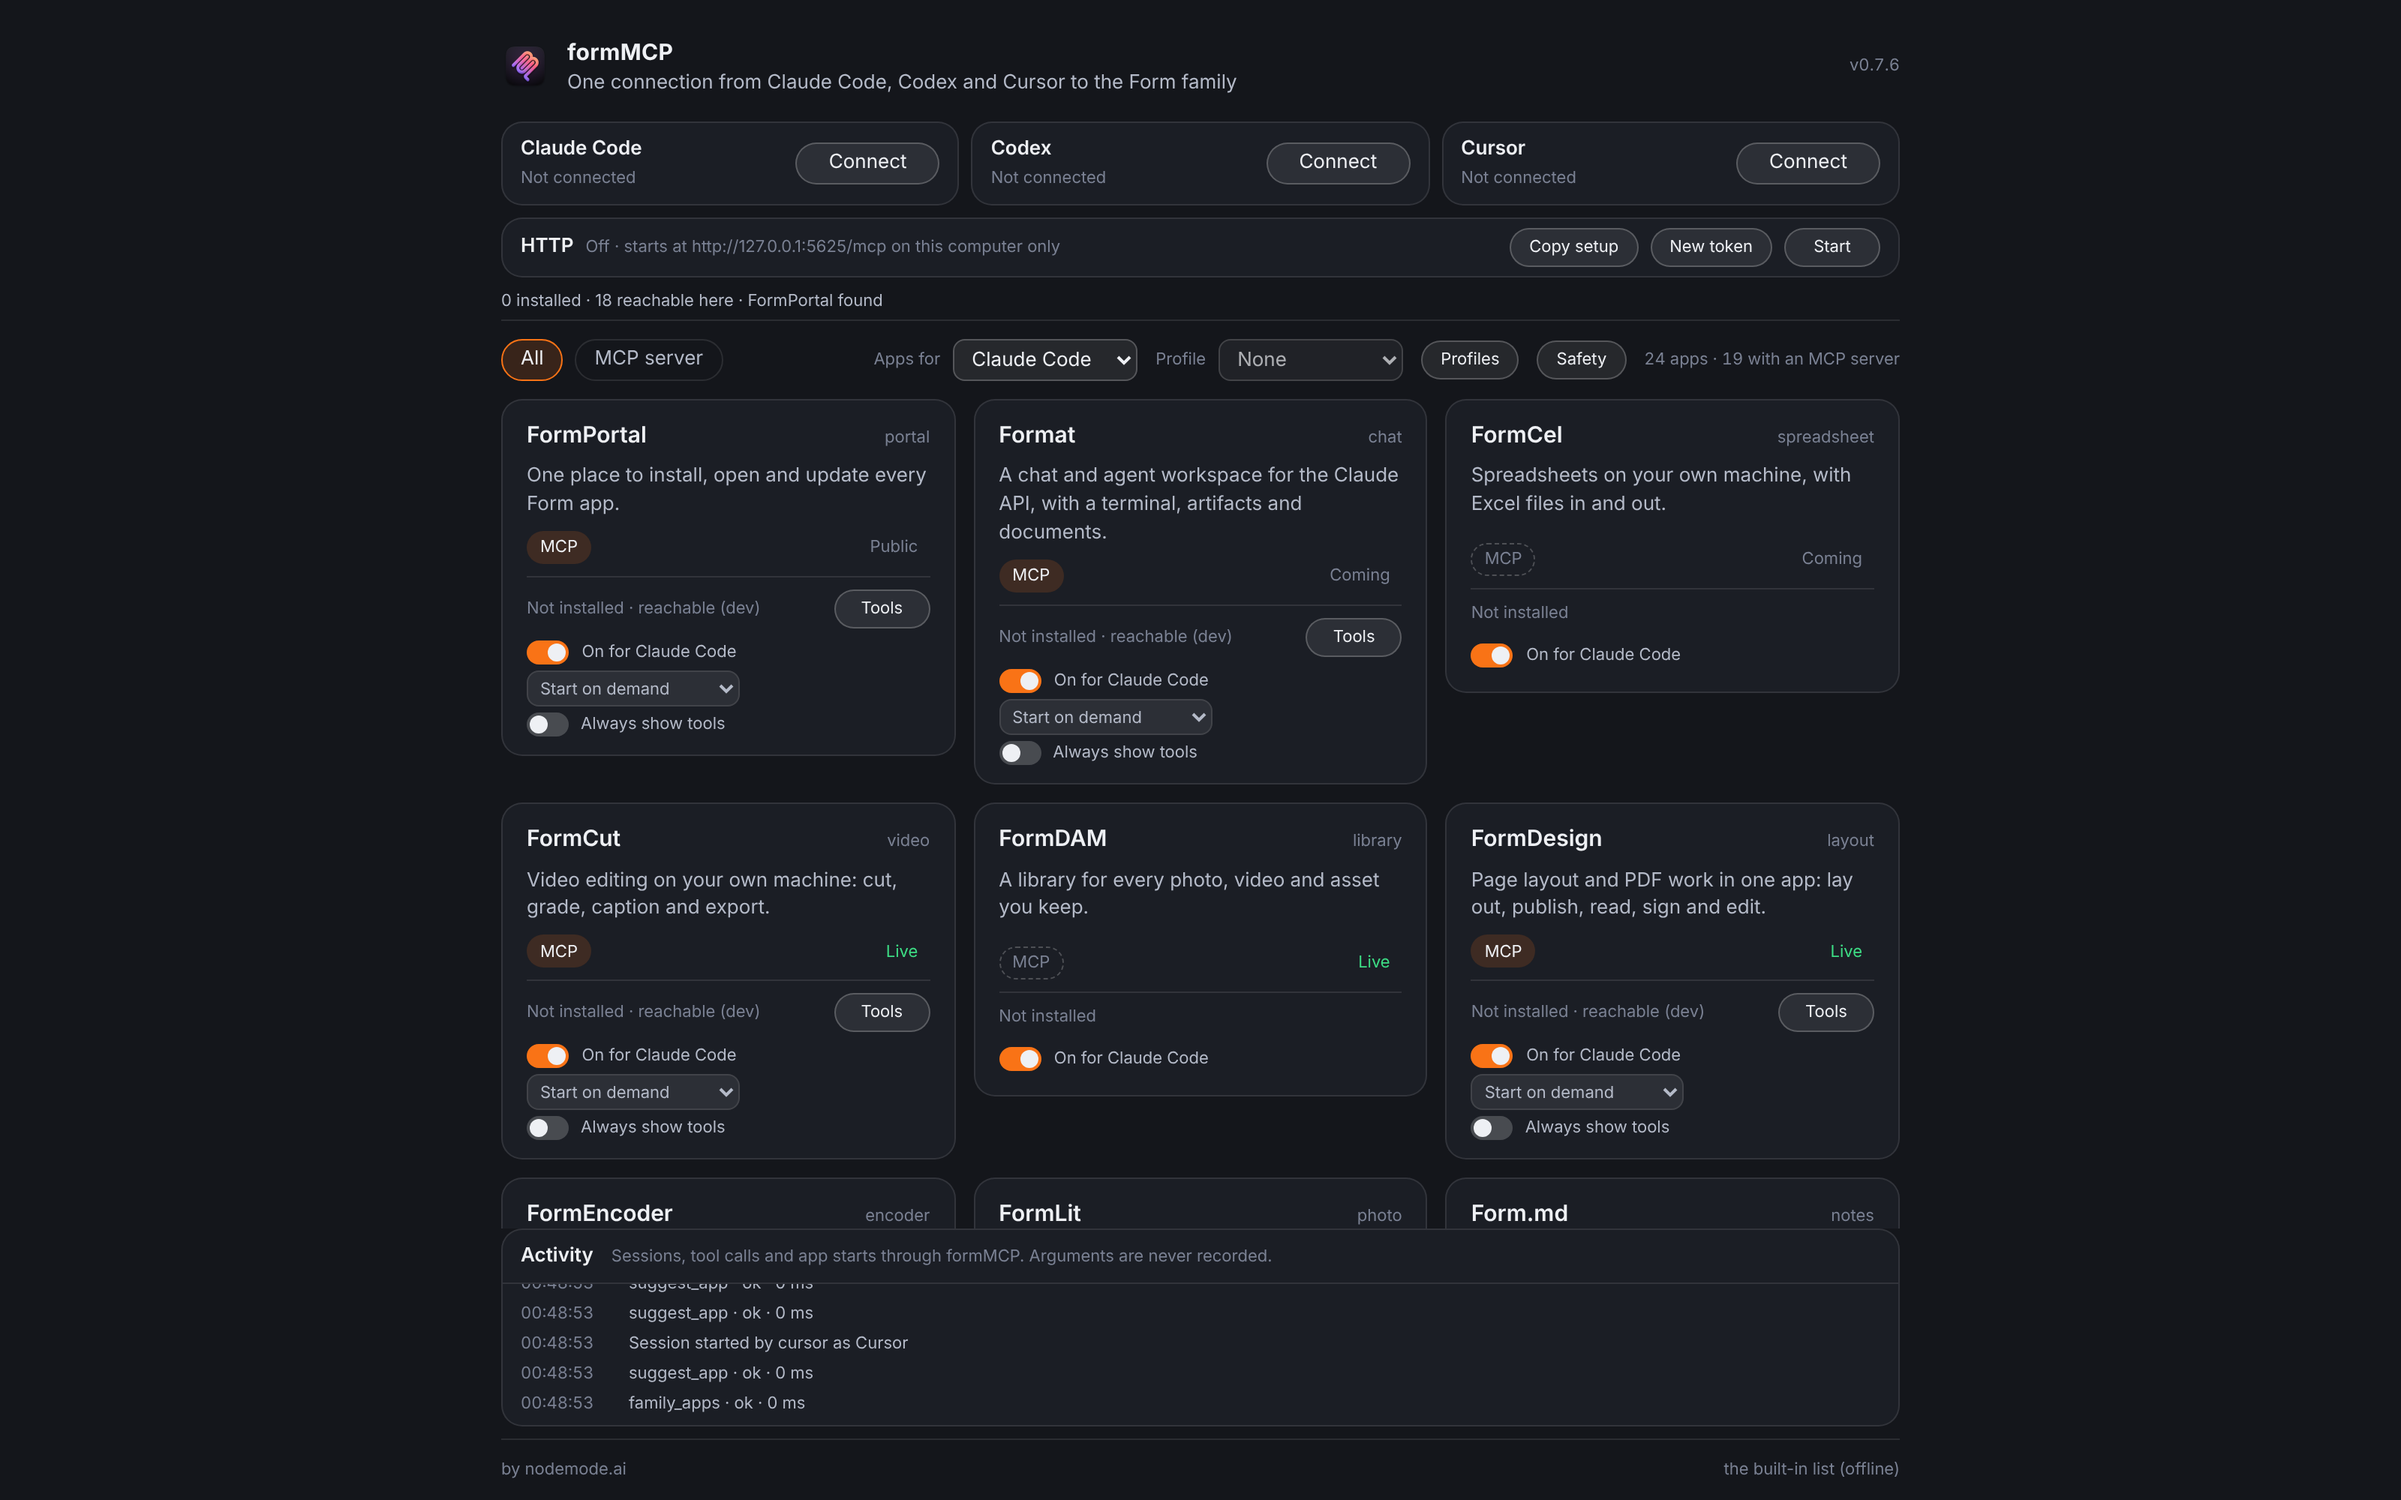
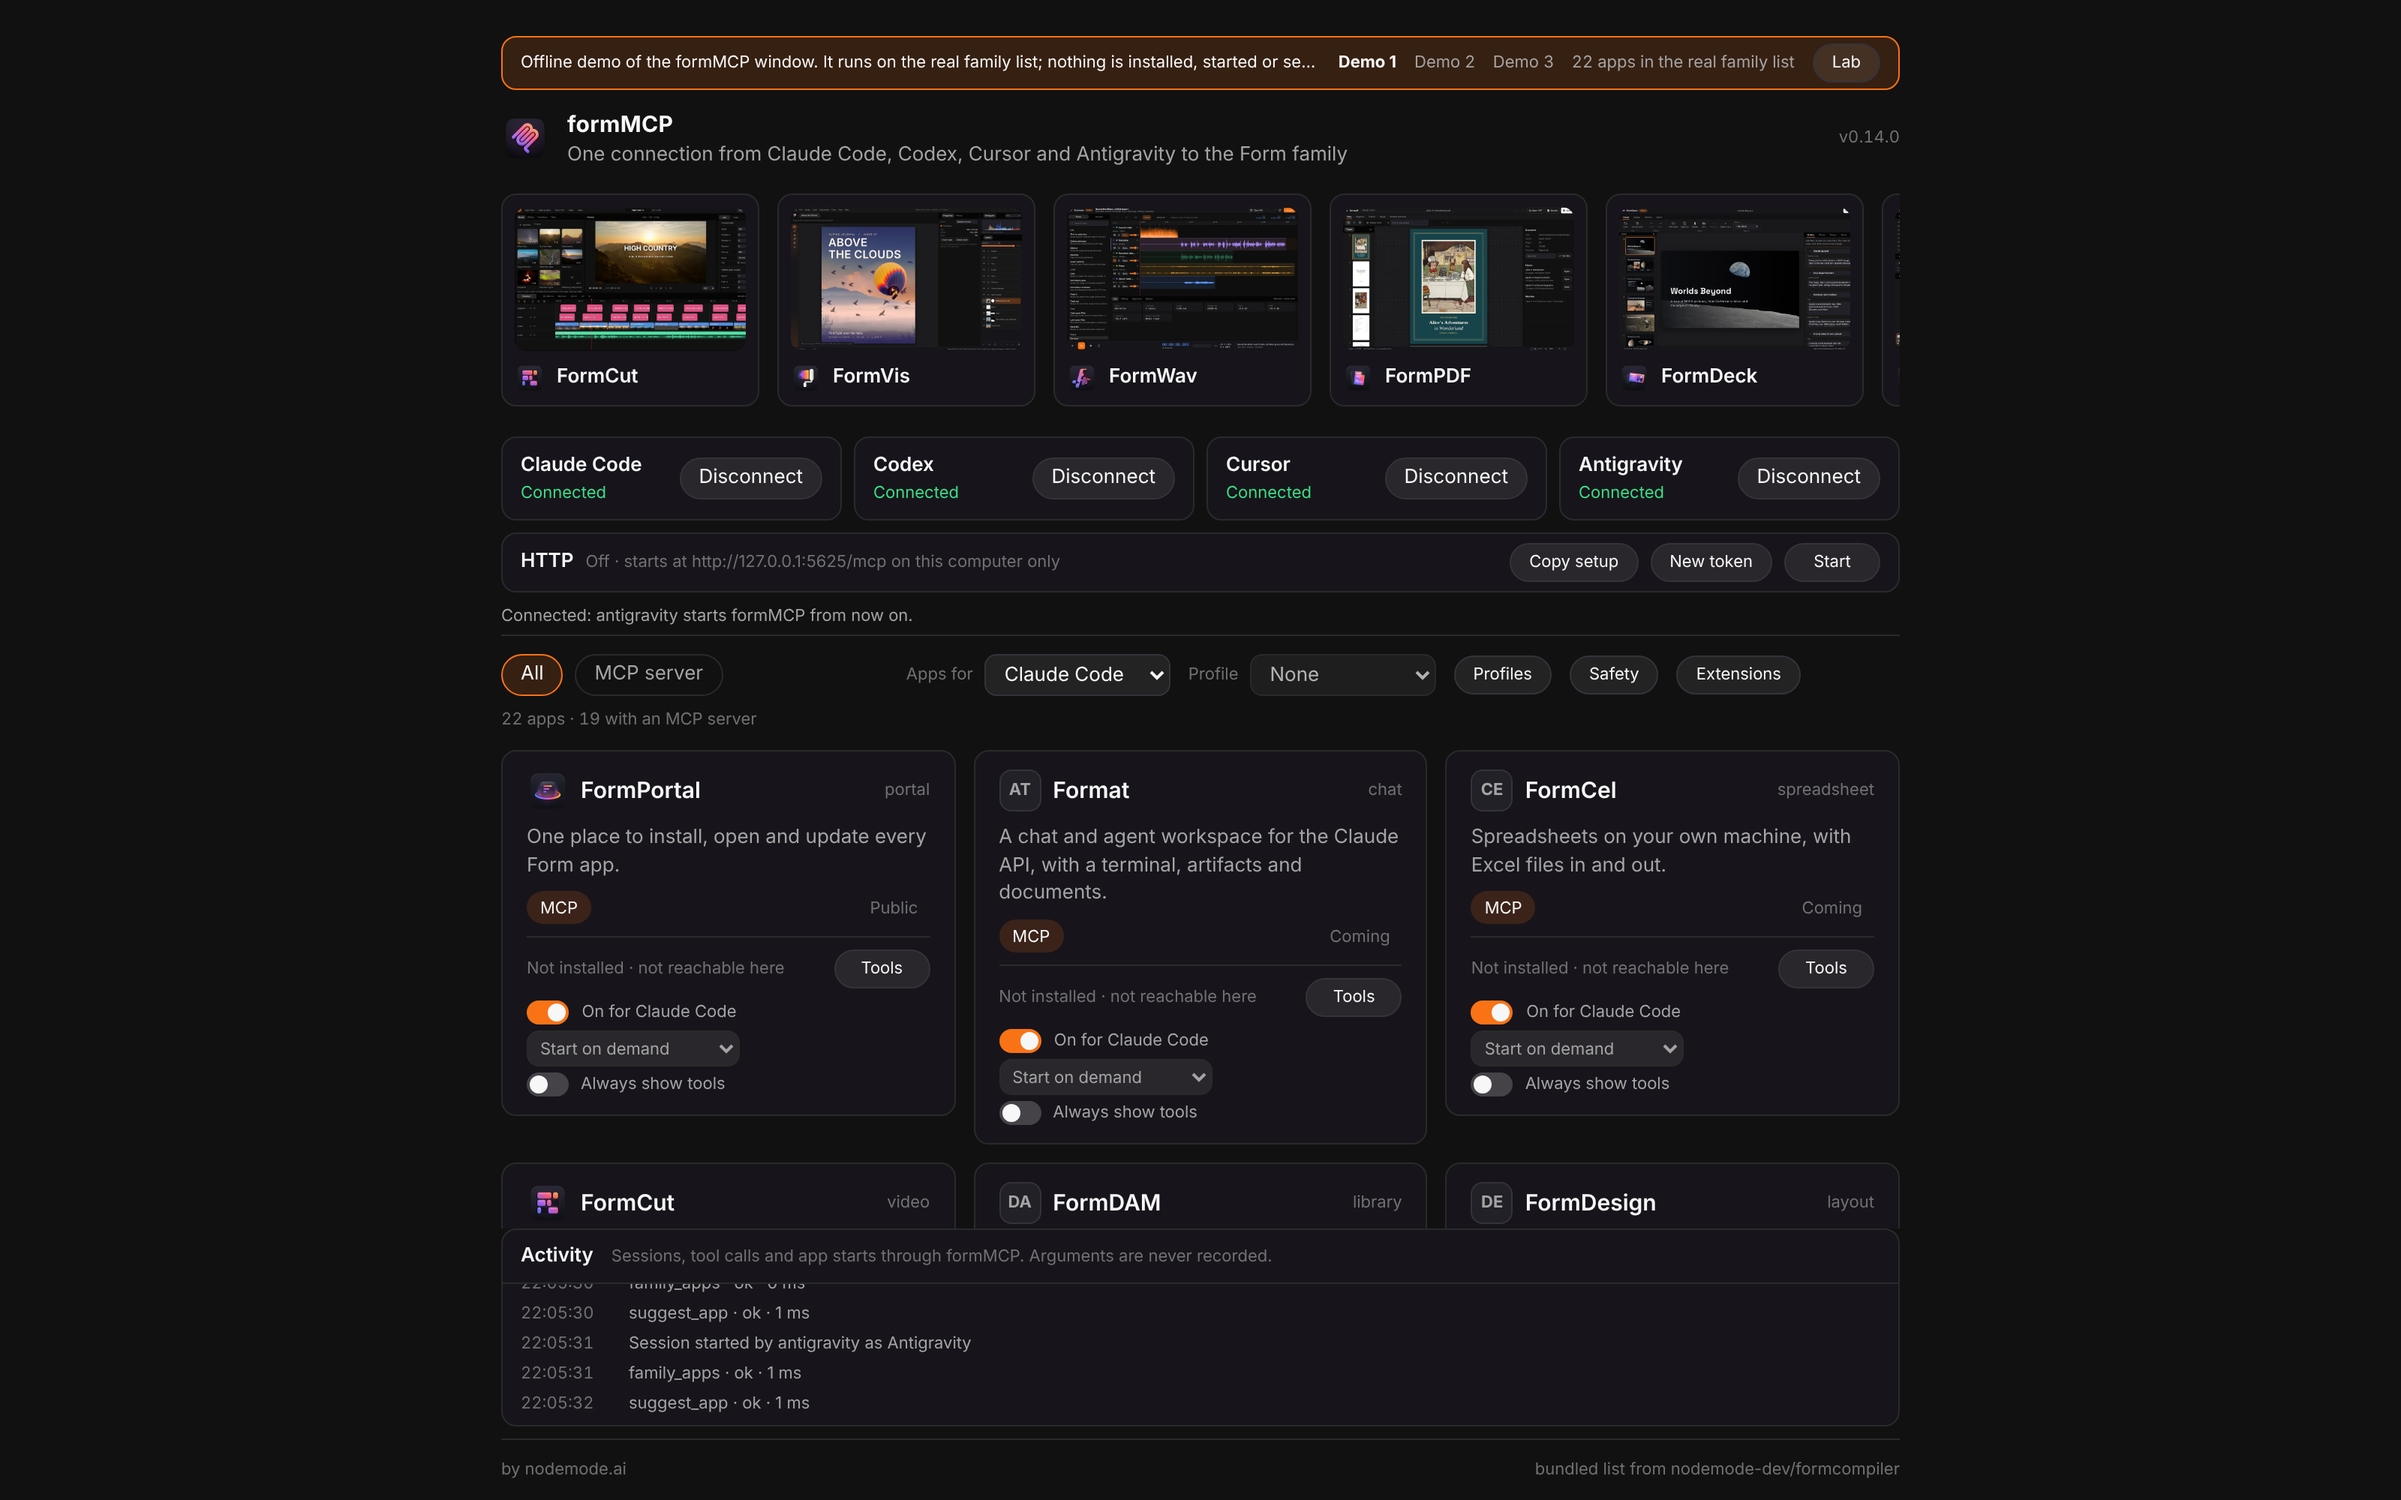
docs(readme): the hero picture shows today's window with four agents
The README's hero was a hand-taken still of the v0.7.6 desktop window
with three agent cards; no script made it and that window cannot be run
on the build machine. It is replaced at the same name, type and size
(PNG, 3200 by 2000) by today's window as the offline demo 1 shows it:
Claude Code, Codex, Cursor and Antigravity connected and an Activity log
of their sessions and family_apps and suggest_app calls. The alt text
and caption say it is the browser demo, and the feature line names all
four agents.

setup/hero.py makes it again from the built demo/index.html with
Playwright (walk and settings in demo/HASHOUT_LOG.md); it checks the four
cards and stops on any console error.

diff --git a/setup/hero.py b/setup/hero.py
@@ -1,0 +1,79 @@
+import argparse
+import io
+import sys
+from pathlib import Path
+
+from playwright.sync_api import sync_playwright
+
+AGENTS = ["claude", "codex", "cursor", "antigravity"]
+TASKS = {
+    "claude": "cut a 30 second trailer from these video clips",
+    "codex": "convert a folder of MOV files to H.264 MP4",
+    "cursor": "retouch a photo and remove the background",
+    "antigravity": "clean up podcast audio and master it",
+}
+
+
+def run_tool(page, tool, agent, args):
+    console = page.locator("#lab .lab-pane").filter(has=page.locator("select[aria-label='MCP tool']"))
+    console.locator("select[aria-label='MCP tool']").select_option(tool)
+    console.locator(".agent-pick select").select_option(agent)
+    console.locator("textarea.lab-args").fill(args)
+    console.get_by_role("button", name="Run").click()
+    page.wait_for_timeout(150)
+
+
+def capture(root, out, scheme):
+    page_url = (root / "demo" / "index.html").as_uri()
+    with sync_playwright() as p:
+        browser = p.chromium.launch()
+        context = browser.new_context(viewport={"width": 1600, "height": 1000}, device_scale_factor=2, color_scheme=scheme, timezone_id="America/New_York", locale="en-US")
+        page = context.new_page()
+        errors = []
+        page.on("console", lambda m: errors.append(m.text) if m.type == "error" else None)
+        page.on("pageerror", lambda e: errors.append(str(e)))
+        page.goto(page_url)
+        page.wait_for_load_state("load")
+        page.wait_for_timeout(1500)
+        cards = page.locator(".client[data-client]")
+        names = [cards.nth(i).get_attribute("data-client") for i in range(cards.count())]
+        if names != AGENTS:
+            raise SystemExit(f"the window shows the agent cards {names}, not {AGENTS}")
+        for agent in AGENTS:
+            page.locator(f'.client[data-client="{agent}"] [data-connect]').click()
+            page.wait_for_timeout(150)
+            page.locator("[data-lab-open]").click()
+            page.locator("#lab .lab-tabs button", has_text="Console").click()
+            run_tool(page, "family_apps", agent, '{ "mcp_only": true }')
+            run_tool(page, "suggest_app", agent, '{ "task": "%s", "limit": 3 }' % TASKS[agent])
+            page.locator("#lab .lab-head button", has_text="Close").click()
+            page.wait_for_timeout(150)
+        page.mouse.move(0, 0)
+        page.evaluate("window.scrollTo(0, 0)")
+        page.wait_for_timeout(1500)
+        shot = page.screenshot(type="png")
+        browser.close()
+    if errors:
+        raise SystemExit("console errors: " + " | ".join(errors))
+    try:
+        from PIL import Image
+    except ImportError:
+        out.write_bytes(shot)
+        return
+    Image.open(io.BytesIO(shot)).convert("RGB").save(out, optimize=True)
+
+
+def main():
+    parser = argparse.ArgumentParser(description="Remake docs/images/formmcp-hero.png from the built demo 1 (demo/index.html).")
+    parser.add_argument("--out", type=Path, help="where to write the picture (default: docs/images/formmcp-hero.png)")
+    parser.add_argument("--scheme", choices=["dark", "light"], default="dark")
+    a = parser.parse_args()
+    root = Path(__file__).resolve().parent.parent
+    out = a.out or root / "docs" / "images" / "formmcp-hero.png"
+    capture(root, out, a.scheme)
+    print(f"wrote {out}")
+    return 0
+
+
+if __name__ == "__main__":
+    sys.exit(main())

diff --git a/demo/HASHOUT_LOG.md b/demo/HASHOUT_LOG.md
@@ -2,8 +2,17 @@
 
 Living log for the offline demo. Source files stay comment-free; what they would have said lives here.
 
-Current build version: v0.14.0
-Last updated: 2026-11-20 · v0.14.0 rebuilt for the version it shows (no demo changes); v0.13.0 Antigravity in demo 1, rebuilt with FormVis's surfaces; 2026-11-07 · v0.9.1 rebuilt for the version it shows (Greg's README note on FormPortal updates, no demo changes); v0.9.0 the shim marks and restores settings, and gives tool_list's loaded in seconds; the three-demo link row; real media: icons, screenshot reel and Lab flows; before that the offline demo: the real window on a Tauri shim, and the Lab
+Current build version: v0.14.1
+Last updated: 2026-11-20 · v0.14.1 the README's hero picture is made from this demo by setup/hero.py; v0.14.0 rebuilt for the version it shows (no demo changes); v0.13.0 Antigravity in demo 1, rebuilt with FormVis's surfaces; 2026-11-07 · v0.9.1 rebuilt for the version it shows (Greg's README note on FormPortal updates, no demo changes); v0.9.0 the shim marks and restores settings, and gives tool_list's loaded in seconds; the three-demo link row; real media: icons, screenshot reel and Lab flows; before that the offline demo: the real window on a Tauri shim, and the Lab
+
+## v0.14.1 · the README's hero picture comes from this demo {#v0-14-1}
+
+### setup/hero.py · docs/images/formmcp-hero.png remade from demo 1
+- refers-to: setup/hero.py :: capture, run_tool, main · docs/images/formmcp-hero.png · README.md :: hero
+- kind: decision
+- logged: v0.14.1 · 2026-11-20
+
+The README's hero was a still screenshot (PNG, 3200 by 2000) of the v0.7.6 desktop window with three agent cards, taken by hand in November with FormPortal found and checkouts reachable in development; no script made it, and the desktop window with a real FormPortal cannot be run on the build machine, so that picture cannot be remade as it was. It is replaced, at the same name, place, type and size, by a picture of today's window as this demo shows it, with the demo strip and screenshot reel left in so nobody mistakes it for the desktop app; the README's alt text and caption say so. `setup/hero.py` makes it again: it opens the built `demo/index.html` from file:// in Playwright's Chromium at 1600 by 1000 CSS pixels and device scale 2, dark scheme, checks that the window shows exactly the cards Claude Code, Codex, Cursor and Antigravity, then for each agent in that order presses Connect and runs `family_apps` and `suggest_app` as that agent from the Lab's Console (the same walk the old picture's log shows: sessions, then family_apps and suggest_app calls), closes the Lab, and saves the viewport; it stops on any console error. Pillow, when present, recompresses the PNG. Run it after `npm run build:demo` with `PLAYWRIGHT_BROWSERS_PATH` pointing at the browsers: `python3 setup/hero.py` (or `--out` elsewhere, `--scheme light`). The demo's own `mcp-hero.webp` preview is a separate picture and was not changed.
 
 ## v0.13.0 · four agent programs, FormVis's surfaces {#v0-13-0}
 

diff --git a/README.md b/README.md
@@ -25,8 +25,8 @@
 <br>
 
 <p align="center">
-  <img src="docs/images/formmcp-hero.png" alt="The FormMCP window: Claude Code, Codex and Cursor connect buttons, an HTTP bar, cards for the Form apps with per-agent switches, and an Activity log of family_apps and suggest_app calls" width="100%">
-  <br><sub>The window: the Form family as agents see it, with a live log of the sessions and calls from three agents.</sub>
+  <img src="docs/images/formmcp-hero.png" alt="The FormMCP window in the browser demo: Claude Code, Codex, Cursor and Antigravity connected, an HTTP bar, cards for the Form apps with per-agent switches, and an Activity log of sessions and family_apps and suggest_app calls" width="100%">
+  <br><sub>The window, as the offline browser demo shows it: the Form family as agents see it, with a live log of the sessions and calls from four agents.</sub>
 </p>
 
 <p align="center">
@@ -38,7 +38,7 @@
 <table>
   <tr>
     <td width="25%" valign="top"><h3>Cheap on context</h3>One line per app and no app's tools, so the family list stays small instead of loading every app's tools up front.</td>
-    <td width="25%" valign="top"><h3>You choose what each agent gets</h3>Turn an app or a single tool off for Claude Code, Codex or Cursor, and share the setup as a named profile.</td>
+    <td width="25%" valign="top"><h3>You choose what each agent gets</h3>Turn an app or a single tool off for Claude Code, Codex, Cursor or Antigravity, and share the setup as a named profile.</td>
     <td width="25%" valign="top"><h3>Safe by default</h3>Secrets live in the system keychain, results are scrubbed, and an installed app whose files changed is refused.</td>
     <td width="25%" valign="top"><h3>Agent-ready</h3>The same engine runs the window, a command line and an MCP server over stdio or local HTTP.</td>
   </tr>

diff --git a/.docs/wiki/Architecture.md b/.docs/wiki/Architecture.md
@@ -7,6 +7,7 @@ formMCP/
 ├── src-tauri/       the shell: the window, and `formmcp mcp` with no window
 ├── frontend/        the window: tokens, layers, one list
 ├── setup/family.py  core/data/family.json from the family spec
+├── setup/hero.py    docs/images/formmcp-hero.png from the built demo 1
 └── assets/          the owner's icon
 ```
 
